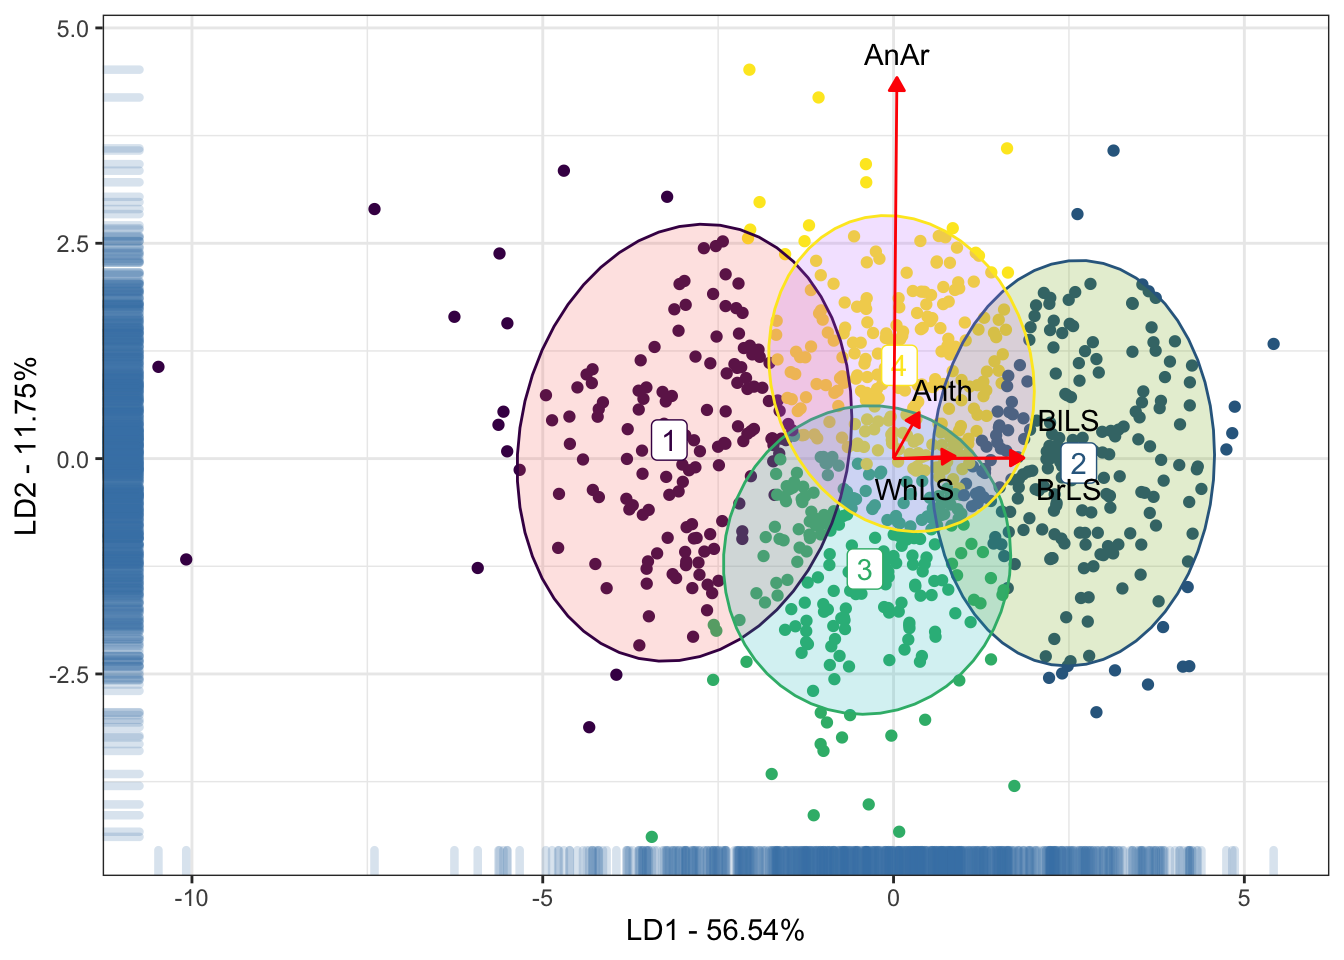
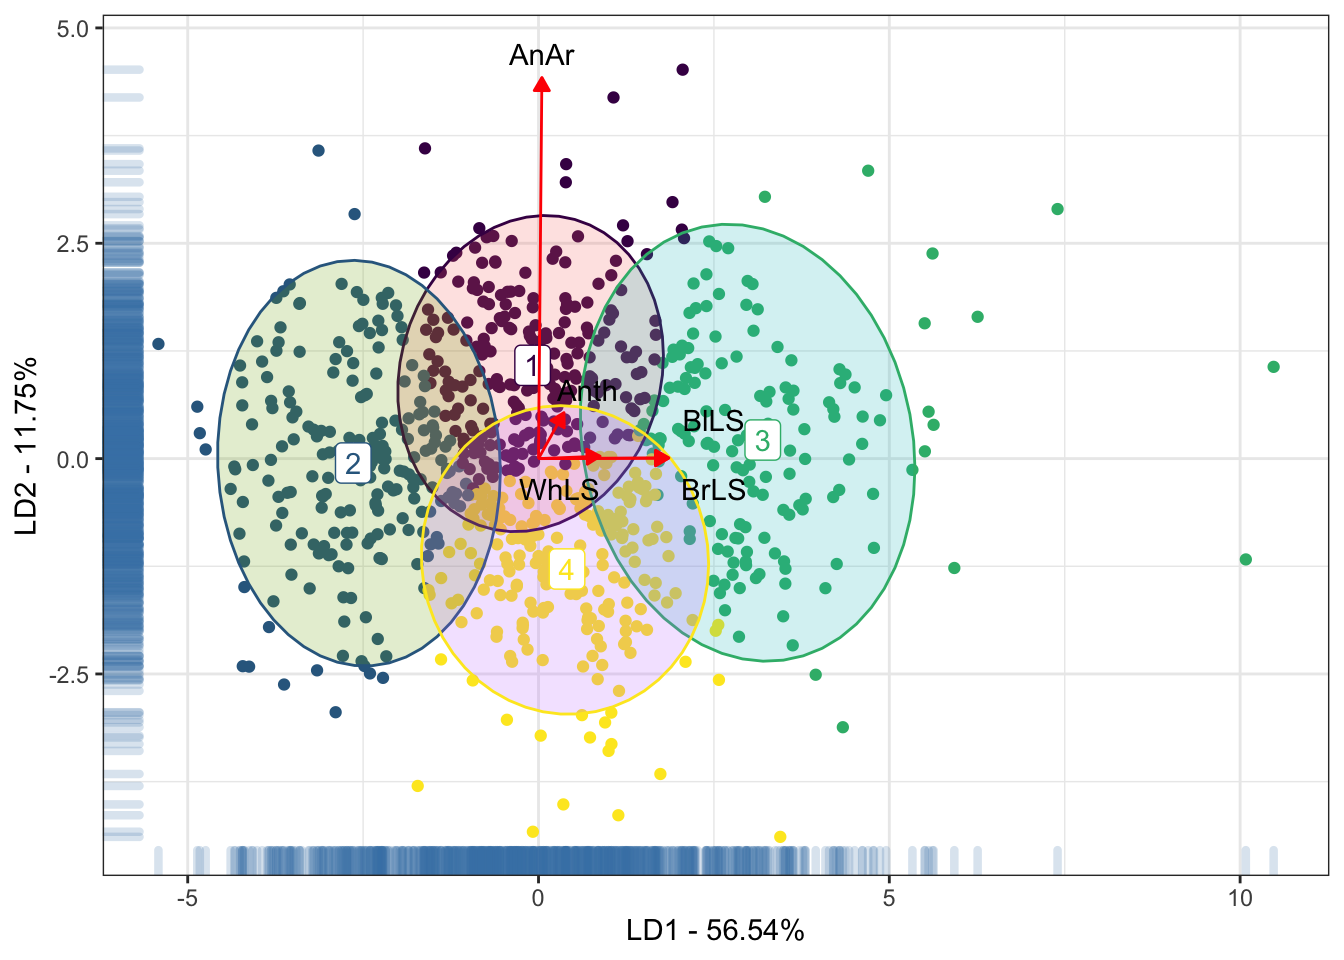
DAPC Analysis finished

diff --git a/docs/PCA_DAPC.html b/docs/PCA_DAPC.html
@@ -9,11 +9,9 @@
 <meta http-equiv="X-UA-Compatible" content="IE=EDGE" />
 
 
-<meta name="author" content="LucianoRogerio e HenriqueBernardino" />
 
-<meta name="date" content="2021-11-02" />
 
-<title>Analise de Componentes Principais e Discriminantes</title>
+<title>PCA_DAPC.knit</title>
 
 <script src="site_libs/header-attrs-2.11/header-attrs.js"></script>
 <script src="site_libs/jquery-3.6.0/jquery-3.6.0.min.js"></script>
@@ -350,82 +348,11 @@ div.tocify {
 
 
 
-<h1 class="title toc-ignore">Analise de Componentes Principais e Discriminantes</h1>
-<h4 class="author">LucianoRogerio e HenriqueBernardino</h4>
-<h4 class="date">2021-11-02</h4>
 
 </div>
 
 
 <p>
-<button type="button" class="btn btn-default btn-workflowr btn-workflowr-report" data-toggle="collapse" data-target="#workflowr-report">
-<span class="glyphicon glyphicon-list" aria-hidden="true"></span> workflowr <span class="glyphicon glyphicon-ok text-success" aria-hidden="true"></span>
-</button>
-</p>
-<div id="workflowr-report" class="collapse">
-<ul class="nav nav-tabs">
-<li class="active">
-<a data-toggle="tab" href="#summary">Summary</a>
-</li>
-<li>
-<a data-toggle="tab" href="#checks"> Checks <span class="glyphicon glyphicon-ok text-success" aria-hidden="true"></span> </a>
-</li>
-<li>
-<a data-toggle="tab" href="#versions">Past versions</a>
-</li>
-</ul>
-<div class="tab-content">
-<div id="summary" class="tab-pane fade in active">
-<p>
-<strong>Last updated:</strong> 2021-11-09
-</p>
-<p>
-<strong>Checks:</strong> <span class="glyphicon glyphicon-ok text-success" aria-hidden="true"></span> 7 <span class="glyphicon glyphicon-exclamation-sign text-danger" aria-hidden="true"></span> 0
-</p>
-<p>
-<strong>Knit directory:</strong> <code>HenriqueDGen/</code> <span class="glyphicon glyphicon-question-sign" aria-hidden="true" title="This is the local directory in which the code in this file was executed."> </span>
-</p>
-<p>
-This reproducible <a href="http://rmarkdown.rstudio.com">R Markdown</a> analysis was created with <a
-  href="https://github.com/jdblischak/workflowr">workflowr</a> (version 1.6.2). The <em>Checks</em> tab describes the reproducibility checks that were applied when the results were created. The <em>Past versions</em> tab lists the development history.
-</p>
-<hr>
-</div>
-<div id="checks" class="tab-pane fade">
-<div id="workflowr-checks" class="panel-group">
-<div class="panel panel-default">
-<div class="panel-heading">
-<p class="panel-title">
-<a data-toggle="collapse" data-parent="#workflowr-checks" href="#strongRMarkdownfilestronguptodate"> <span class="glyphicon glyphicon-ok text-success" aria-hidden="true"></span> <strong>R Markdown file:</strong> up-to-date </a>
-</p>
-</div>
-<div id="strongRMarkdownfilestronguptodate" class="panel-collapse collapse">
-<div class="panel-body">
-<p>Great! Since the R Markdown file has been committed to the Git repository, you know the exact version of the code that produced these results.</p>
-</div>
-</div>
-</div>
-<div class="panel panel-default">
-<div class="panel-heading">
-<p class="panel-title">
-<a data-toggle="collapse" data-parent="#workflowr-checks" href="#strongEnvironmentstrongempty"> <span class="glyphicon glyphicon-ok text-success" aria-hidden="true"></span> <strong>Environment:</strong> empty </a>
-</p>
-</div>
-<div id="strongEnvironmentstrongempty" class="panel-collapse collapse">
-<div class="panel-body">
-<p>Great job! The global environment was empty. Objects defined in the global environment can affect the analysis in your R Markdown file in unknown ways. For reproduciblity it’s best to always run the code in an empty environment.</p>
-</div>
-</div>
-</div>
-<div class="panel panel-default">
-<div class="panel-heading">
-<p class="panel-title">
-<a data-toggle="collapse" data-parent="#workflowr-checks" href="#strongSeedstrongcodesetseed20211012code"> <span class="glyphicon glyphicon-ok text-success" aria-hidden="true"></span> <strong>Seed:</strong> <code>set.seed(20211012)</code> </a>
-</p>
-</div>
-<div id="strongSeedstrongcodesetseed20211012code" class="panel-collapse collapse">
-<div class="panel-body">
-<p>The command <code>set.seed(20211012)</code> was run prior to running the code in the R Markdown file. Setting a seed ensures that any results that rely on randomness, e.g. subsampling or permutations, are reproducible.</p>
 </div>
 </div>
 </div>
@@ -468,16 +395,16 @@ This reproducible <a href="http://rmarkdown.rstudio.com">R Markdown</a> analysis
 <div class="panel panel-default">
 <div class="panel-heading">
 <p class="panel-title">
-<a data-toggle="collapse" data-parent="#workflowr-checks" href="#strongRepositoryversionstrongahrefhttpsgithubcomLucianoRogerioHenriqueDGentree33422ee6556507108c3f3cd49022bca3a0cea186targetblank33422eea"> <span class="glyphicon glyphicon-ok text-success" aria-hidden="true"></span> <strong>Repository version:</strong> <a href="https://github.com/LucianoRogerio/HenriqueDGen/tree/33422ee6556507108c3f3cd49022bca3a0cea186" target="_blank">33422ee</a> </a>
+<a data-toggle="collapse" data-parent="#workflowr-checks" href="#strongRepositoryversionstrongahrefhttpsgithubcomLucianoRogerioHenriqueDGentreee89306de2778535a318cece13cf3b227fe2d1fc4targetblanke89306da"> <span class="glyphicon glyphicon-ok text-success" aria-hidden="true"></span> <strong>Repository version:</strong> <a href="https://github.com/LucianoRogerio/HenriqueDGen/tree/e89306de2778535a318cece13cf3b227fe2d1fc4" target="_blank">e89306d</a> </a>
 </p>
 </div>
[2 lines of base64/hex data omitted]
 <div class="panel-body">
 <p>
 Great! You are using Git for version control. Tracking code development and connecting the code version to the results is critical for reproducibility.
 </p>
 <p>
-The results in this page were generated with repository version <a href="https://github.com/LucianoRogerio/HenriqueDGen/tree/33422ee6556507108c3f3cd49022bca3a0cea186" target="_blank">33422ee</a>. See the <em>Past versions</em> tab to see a history of the changes made to the R Markdown and HTML files.
+The results in this page were generated with repository version <a href="https://github.com/LucianoRogerio/HenriqueDGen/tree/e89306de2778535a318cece13cf3b227fe2d1fc4" target="_blank">e89306d</a>. See the <em>Past versions</em> tab to see a history of the changes made to the R Markdown and HTML files.
 </p>
 <p>
 Note that you need to be careful to ensure that all relevant files for the analysis have been committed to Git prior to generating the results (you can use <code>wflow_publish</code> or <code>wflow_git_commit</code>). workflowr only checks the R Markdown file, but you know if there are other scripts or data files that it depends on. Below is the status of the Git repository when the results were generated:
@@ -487,6 +414,9 @@ Ignored files:
     Ignored:    .DS_Store
     Ignored:    .Rhistory
     Ignored:    .Rproj.user/
+
+Unstaged changes:
+    Modified:   analysis/PCA_DAPC.Rmd
 
 </code></pre>
 <p>
@@ -530,7 +460,7 @@ Message
 Rmd
 </td>
 <td>
-<a href="https://github.com/LucianoRogerio/HenriqueDGen/blob/33422ee6556507108c3f3cd49022bca3a0cea186/analysis/PCA_DAPC.Rmd" target="_blank">33422ee</a>
+<a href="https://github.com/LucianoRogerio/HenriqueDGen/blob/e89306de2778535a318cece13cf3b227fe2d1fc4/analysis/PCA_DAPC.Rmd" target="_blank">e89306d</a>
 </td>
 <td>
 LucianoRogerio
@@ -547,7 +477,7 @@ DAPC Analysis finished
 html
 </td>
 <td>
-<a href="https://rawcdn.githack.com/LucianoRogerio/HenriqueDGen/33422ee6556507108c3f3cd49022bca3a0cea186/docs/PCA_DAPC.html" target="_blank">33422ee</a>
+<a href="https://rawcdn.githack.com/LucianoRogerio/HenriqueDGen/e89306de2778535a318cece13cf3b227fe2d1fc4/docs/PCA_DAPC.html" target="_blank">e89306d</a>
 </td>
 <td>
 LucianoRogerio
@@ -710,7 +640,7 @@ Date
 <tbody>
 <tr>
 <td>
-<a href="https://github.com/LucianoRogerio/HenriqueDGen/blob/33422ee6556507108c3f3cd49022bca3a0cea186/docs/figure/PCA_DAPC.Rmd/unnamed-chunk-1-2.png" target="_blank">33422ee</a>
+<a href="https://github.com/LucianoRogerio/HenriqueDGen/blob/e89306de2778535a318cece13cf3b227fe2d1fc4/docs/figure/PCA_DAPC.Rmd/unnamed-chunk-1-2.png" target="_blank">e89306d</a>
 </td>
 <td>
 LucianoRogerio
@@ -744,6 +674,7 @@ BLUPS[is.na(BLUPS)] &lt;- 0
 rownames(BLUPS) &lt;- BLUPS$CLONE
 BLUPS$CLONE &lt;- NULL
 
+set.seed(1)
 DAPCHen &lt;- find.clusters(BLUPS, n.pca = 2, max.n.clust = 20, choose.n.clust = FALSE, criterion = &quot;diffNgroup&quot;)
 ClassDAPCHen &lt;- DAPCHen$grp
 DAPCHenGraph &lt;- dapc(BLUPS, grp = ClassDAPCHen, n.pca = 2, n.da = 2)
@@ -799,7 +730,7 @@ Date
 <tbody>
 <tr>
 <td>
-<a href="https://github.com/LucianoRogerio/HenriqueDGen/blob/33422ee6556507108c3f3cd49022bca3a0cea186/docs/figure/PCA_DAPC.Rmd/unnamed-chunk-1-3.png" target="_blank">33422ee</a>
+<a href="https://github.com/LucianoRogerio/HenriqueDGen/blob/e89306de2778535a318cece13cf3b227fe2d1fc4/docs/figure/PCA_DAPC.Rmd/unnamed-chunk-1-3.png" target="_blank">e89306d</a>
 </td>
 <td>
 LucianoRogerio
@@ -828,6 +759,43 @@ ggplot(data = BLUPSBoxplot, mapping = aes(x = Grp, y = Y, fill = Grp)) + ylim(-3
   scale_fill_viridis_d() + guides(fill = &quot;none&quot;) + ylab(&quot;BLUPs&quot;) + xlab(&quot;DACP Group&quot;)</code></pre>
 <pre><code>Warning: Removed 6 rows containing non-finite values (stat_boxplot).</code></pre>
 <p><img src="figure/PCA_DAPC.Rmd/unnamed-chunk-1-4.png" width="672" style="display: block; margin: auto;" /></p>
+<p>
+<button type="button" class="btn btn-default btn-xs btn-workflowr btn-workflowr-fig" data-toggle="collapse" data-target="#fig-unnamed-chunk-1-4">
+Past versions of unnamed-chunk-1-4.png
+</button>
+</p>
+<div id="fig-unnamed-chunk-1-4" class="collapse">
+<div class="table-responsive">
+<table class="table table-condensed table-hover">
+<thead>
+<tr>
+<th>
+Version
+</th>
+<th>
+Author
+</th>
+<th>
+Date
+</th>
+</tr>
+</thead>
+<tbody>
+<tr>
+<td>
+<a href="https://github.com/LucianoRogerio/HenriqueDGen/blob/e89306de2778535a318cece13cf3b227fe2d1fc4/docs/figure/PCA_DAPC.Rmd/unnamed-chunk-1-4.png" target="_blank">e89306d</a>
+</td>
+<td>
+LucianoRogerio
+</td>
+<td>
+2021-11-09
+</td>
+</tr>
+</tbody>
+</table>
+</div>
+</div>
 <p><a href="Den_IndSH.html">Next page</a> <a href="AnalisesModelosMistos.html">Last page</a> <a href="index.html">Back to home</a></p>
 <br>
 <p>
